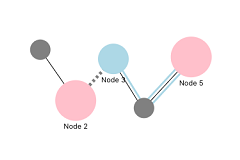
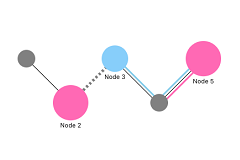
Change appearance customization style

Changed region(s): [[0.0583, 0.2188, 0.9333, 0.8125], [0.175, 0.4688, 0.2042, 0.5]]

diff --git a/docs/.vitepress/components/04_appearance/02/EachObject.vue b/docs/.vitepress/components/04_appearance/02/EachObject.vue
@@ -27,19 +27,19 @@ export default defineComponent({
   setup() {
     const nodes: Record<string, Node> = {
       node1: { name: "Node 1", size: 16, color: "gray" },
-      node2: { name: "Node 2", size: 32, color: "pink", label: true },
-      node3: { name: "Node 3", size: 24, color: "lightblue", label: true },
+      node2: { name: "Node 2", size: 32, color: "hotpink", label: true },
+      node3: { name: "Node 3", size: 24, color: "lightskyblue", label: true },
       node4: { name: "Node 4", size: 16, color: "gray" },
-      node5: { name: "Node 5", size: 32, color: "pink", label: true },
+      node5: { name: "Node 5", size: 32, color: "hotpink", label: true },
     }
     const edges: Record<string, Edge> = {
       edge1: { source: "node1", target: "node2", width: 1, color: "black" },
       edge2: { source: "node2", target: "node3", width: 5, color: "gray", dashed: true },
       edge3: { source: "node3", target: "node4", width: 1, color: "black" },
-      edge4: { source: "node3", target: "node4", width: 3, color: "lightblue" },
-      edge5: { source: "node4", target: "node5", width: 3, color: "lightblue" },
+      edge4: { source: "node3", target: "node4", width: 3, color: "skyblue" },
+      edge5: { source: "node4", target: "node5", width: 3, color: "hotpink" },
       edge6: { source: "node4", target: "node5", width: 1, color: "black" },
-      edge7: { source: "node4", target: "node5", width: 3, color: "lightblue" },
+      edge7: { source: "node4", target: "node5", width: 3, color: "skyblue" },
     }
     const layouts = {
       nodes: {
